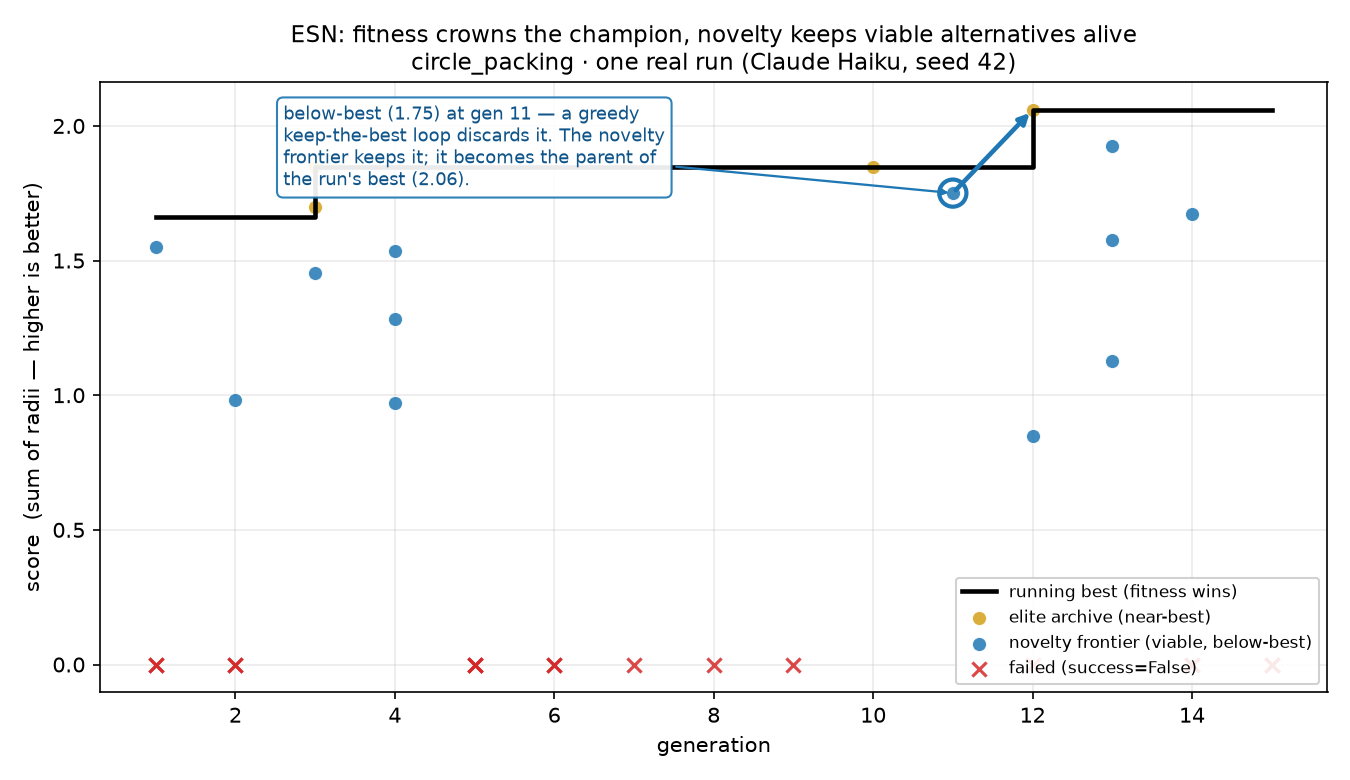
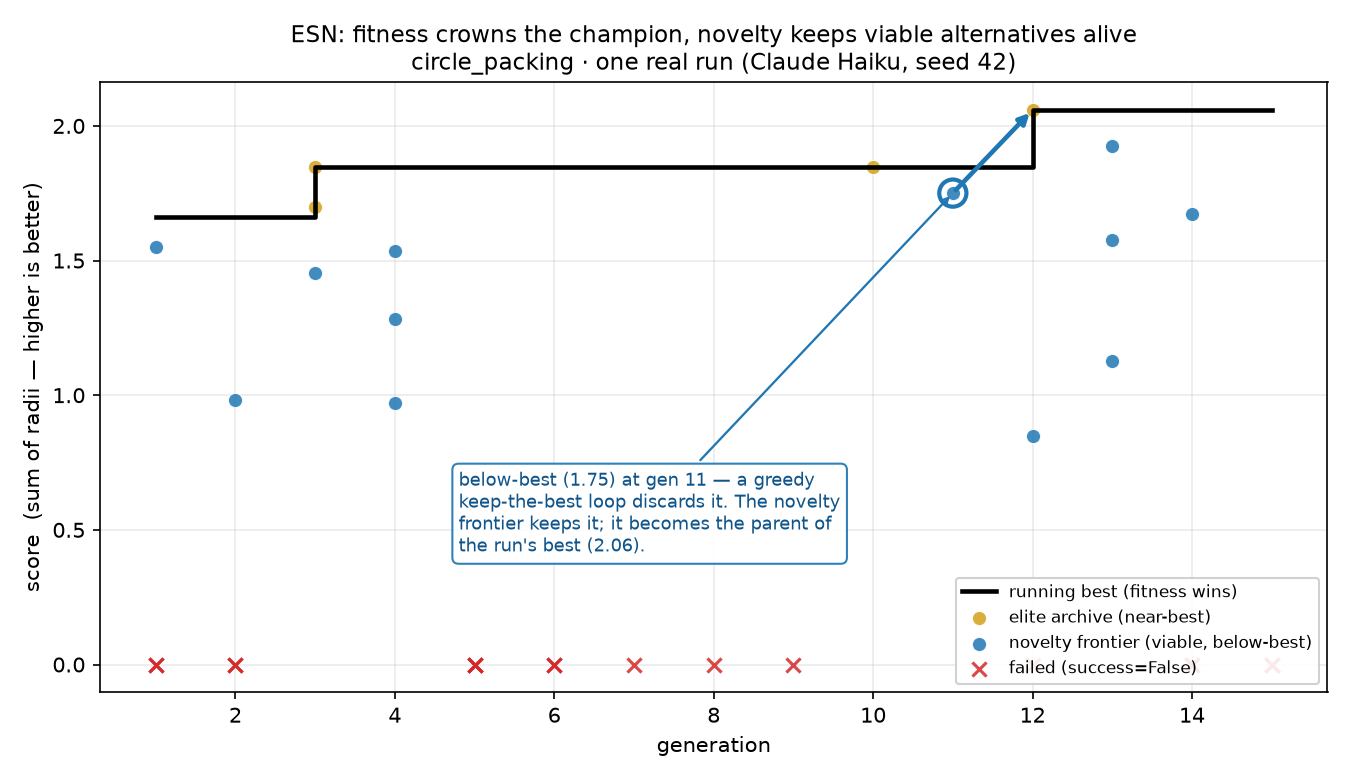
docs: move frontier-survival annotation into empty band so it doesn't cover the plot

diff --git a/docs/assets/make_value_figures.py b/docs/assets/make_value_figures.py
@@ -90,7 +90,7 @@ def fig_frontier_survival(on):
             f"frontier keeps it; it becomes the parent of\n"
             f"the run's best ({best_c['score']:.2f}).",
             xy=(par["gen"], par["score"]),
-            xytext=(2.6, min(by) + (max(by) - min(by)) * 0.30),
+            xytext=(4.8, 0.42),
             fontsize=8.6,
             color="#10558a",
             arrowprops=dict(arrowstyle="->", color="#1f77b4", lw=1.1),